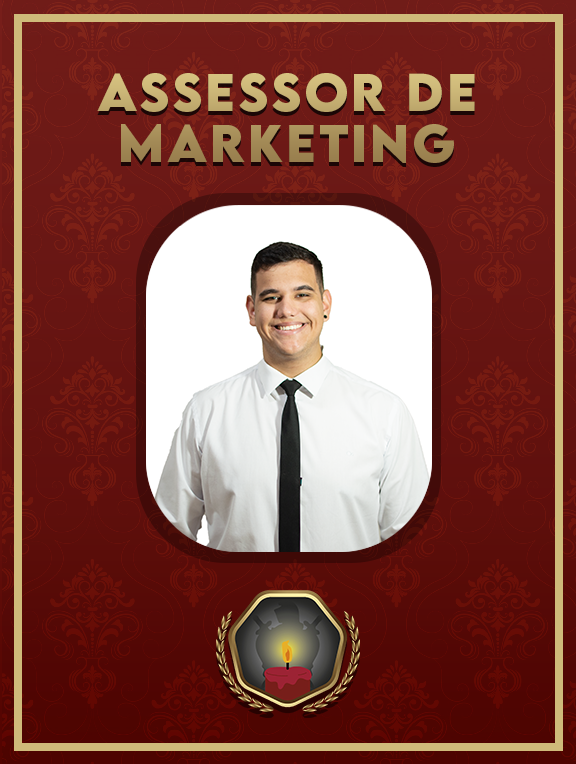
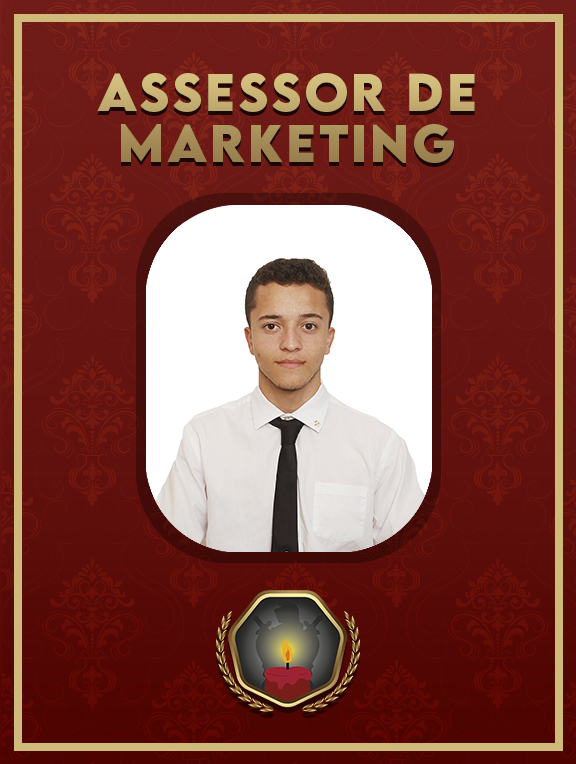
Site em produção do dia 09/09/2022

Changed region(s): [[0.25, 0.301, 0.75, 0.7225], [0.6562, 0.5419, 0.6875, 0.572], [0.5938, 0.6924, 0.625, 0.7225]]

diff --git a/assProjetos6.html b/assProjetos6.html
@@ -1,0 +1,65 @@
+<!DOCTYPE html>
+<html lang="en">
+<head>
+    <meta charset="utf-8" />
+    <meta name="viewport" content="width=device-width, initial-scale=1, shrink-to-fit=no" />
+    <meta name="description" content="" />
+    <meta name="author" content="" />
+    <title>Unindo Ideais</title>
+    <link rel="icon" type="image/x-icon" href="img/favicon.ico" />
+    <link href="css/styles.css" rel="stylesheet" />
+</head>
+<body>
+<!-- Responsive navbar-->
+<nav class="navbar navbar-expand-lg navbar-dark bg-dark">
+    <div class="container px-5">
+        <a class="navbar-brand" href="index.html">Unindo Ideais</a>
+        <button class="navbar-toggler" type="button" data-bs-toggle="collapse" data-bs-target="#navbarSupportedContent" aria-controls="navbarSupportedContent" aria-expanded="false" aria-label="Toggle navigation"><span class="navbar-toggler-icon"></span></button>
+        <div class="collapse navbar-collapse" id="navbarSupportedContent">
+            <ul class="navbar-nav ms-auto mb-2 mb-lg-0">
+                <li class="nav-item"><a class="nav-link" aria-current="page" href="index.html">Home</a></li>
+            </ul>
+        </div>
+    </div>
+</nav>
+<!-- Page Content-->
+<div class="container px-4 px-lg-5" >
+    <!-- Heading Row-->
+    <div class="row gx-4 gx-lg-5 align-items-center my-5">
+        <div class="col-lg-7"><img class="img-fluid rounded mb-4 mb-lg-0" src="img/paginaAssProjetos6.png" alt="..." /></div>
+        <div class="col-lg-5 text-center">
+            <h1 class="font-weight-light">Assessor de Projetos 6</h1>
+            <span>Nome: João Gustavo Santana</span><br>
+            <span>Idade: 21 anos</span><br>
+            <span>Cidade: Campo Mourão - PR</span><br>
+            <span>Capítulo: Campo Mourão Getúlio Pereira Salermo nº 28</span><br>
+            <span>Priorado: Cavaleiros do Paraná n° 115</span><br>
+            <span>Iniciação: 22/03/2015</span><br>
+            <span>Elevação: 21/05/2016</span><br>
+            <span>Investidura: 28/11/2018</span><br>
+
+            <br><h3 class="font-weight-light">Cargos ocupados</h3>
+            <span>Mestre Conselheiro 2022.1</span><br>
+            <span>Ilustre Comendador Cavaleiro 2022</span><br>
+            <span>Corretor Ação Nota 100 (GE) - 2020/2021</span><br>
+            <span>Assessor de Projetos (GE) - 2021/2022</span><br>
+            <span> Membro Comissão de Entretenimento (GE) - 2021/2022</span><br>
+            <span>Porta Bandeira Priorado Estadual (GE) - 2021</span><br>
+            <span>Porta Bandeira Supremo Priorado (GN) - 2022</span><br>
+
+            <br><h3 class="font-weight-light">Prêmios</h3>
+            <span>Protocolista de Ouro 2020</span><br>
+            <span>Certificado por Trabalho Oficial 13/01/2022</span><br>
+            <span>Past Mestre Conselheiro - Prêmio por Serviços Meritórios 2022.1</span><br>
+
+        </div>
+    </div>
+</div>
+<!-- Footer-->
+<footer class="py-5 bg-dark">
+    <div class="container px-4 px-lg-5"><p class="m-0 text-center text-white">Desenvolvido com ❤ por <a href="https://www.linkedin.com/in/pedro-yoshimura-6779a8124/" target="_blank">Pedro Yoshimura</a></p></div>
+</footer>
+<script src="https://cdn.jsdelivr.net/npm/bootstrap@5.1.3/dist/js/bootstrap.bundle.min.js"></script>
+<script src="js/scripts.js"></script>
+</body>
+</html>

diff --git a/mcr9.html b/mcr9.html
@@ -40,6 +40,10 @@
 
       <br><h3 class="font-weight-light">Cargos ocupados</h3>
       <span>Mestre Conselheiro 2022.1</span><br>
+      <span>2° Diácono do Capítulo Estadual (GE) 2020</span><br>
+      <span>1° Conselheiro do Capítulo Estadual (GE) 2021</span><br>
+      <span>Corretor Caneta de Ouro (GN) - 2021/2022</span><br>
+      <span>Membro da Comissão de Ritual, Joias e Liturgia (GCE) - 2021/2023/span><br>
 
       <br><h3 class="font-weight-light">Prêmios</h3>
       <span>Caneta de Ouro 2020.1</span><br>
